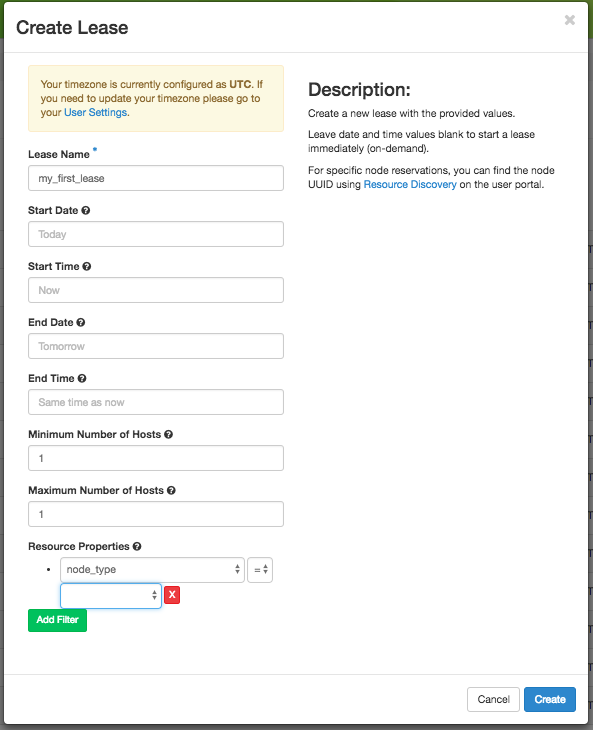
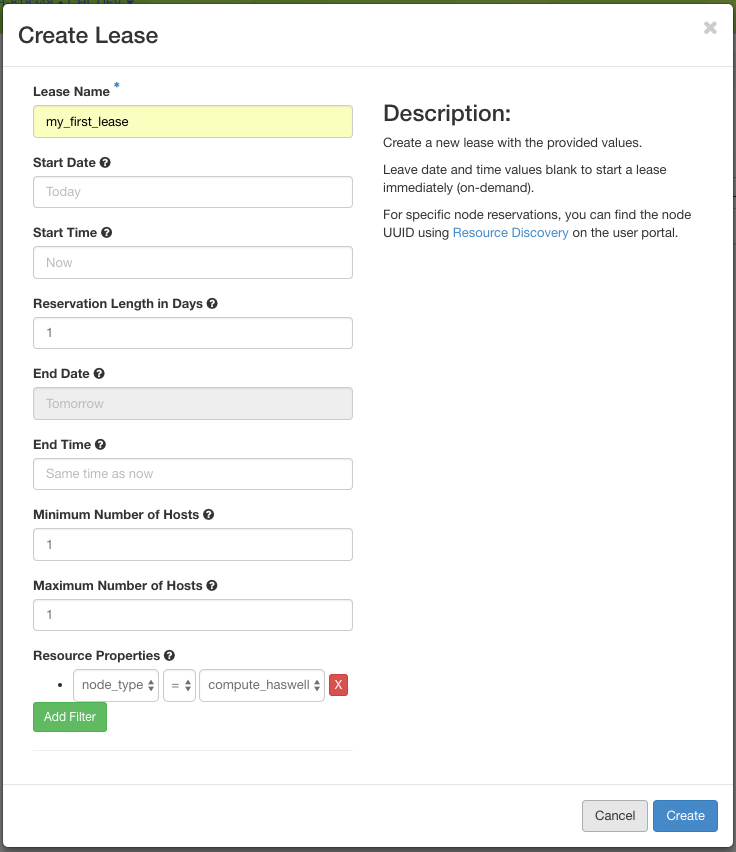
leases by duration
Update screenshots and text to reflect new lease creation dialog in horizon

diff --git a/source/technical/reservations.rst b/source/technical/reservations.rst
@@ -51,7 +51,7 @@ Once you have chosen a time period when you want to reserve resources, go back t
    The Create Lease dialog
 
 #. Pick a name for the Lease. The name needs to be unique across your project.
-#. Pick a start and end date and time. If you would like to start your Lease as soon as possible, you may leave these blank and Chameleon will attempt to reserve your nodes to begin immediately with a default Lease duration of 1 day.
+#. Pick a start time and lease duration in days. If you would like to start your Lease as soon as possible, you may leave the start time blank and Chameleon will attempt to reserve your nodes to begin immediately with a default Lease duration of 1 day.
 
    .. note:: 
       If you have not selected a timezone earlier, the default timezone is **UTC**. Therefore, the date must be entered in **UTC**! 
